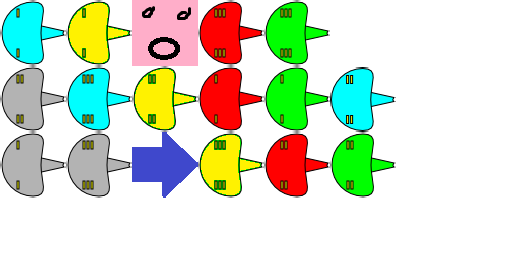
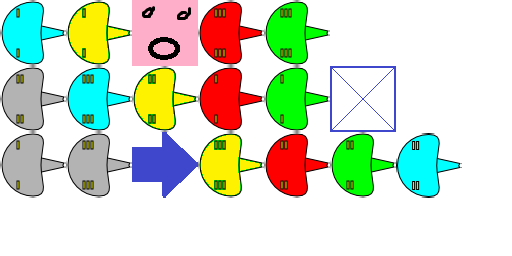
Design notes, earthquakewalls

Changed region(s): [[0.625, 0.25, 0.7812, 0.5312], [0.75, 0.5, 0.9062, 0.7812]]

diff --git a/LibGDXScene2d/my-gdx-game/src/com/me/mygdxgame/GameProcessor.java b/LibGDXScene2d/my-gdx-game/src/com/me/mygdxgame/GameProcessor.java
@@ -174,7 +174,7 @@ public class GameProcessor
 		Tower t = new Tower(
 				towerInfo.get(type),
 				towersAtlas.createSprite(towerInfo.get(type).towerTexture),
-				miscAtlas.createSprite(towerInfo.get(type).missileTexture));
+				miscAtlas.createSprite(towerInfo.get(type).missileTexture), towersAtlas.createSprite("walls"));
 		t.setPosition(tilePosition.x * GameConstants.tileSize, tilePosition.y
 				* GameConstants.tileSize);
 		return t;
@@ -469,7 +469,7 @@ public class GameProcessor
 									if (towers.get(c).getX() == t.getX()+GameConstants.tileSize && towers.get(c).getY() == t.getY())
 										canMove = false;
 								}
-								if(canMove)
+								if(canMove && !t.hasWall())
 									t.setPosition(t.getX() + GameConstants.tileSize, t.getY());
 							}
 							else if (d < 0.05 && map.canBuild((int) Math.round((t.getX()-GameConstants.tileSize) / GameConstants.tileSize), (int) Math.round(t.getY() / GameConstants.tileSize)))
@@ -480,7 +480,7 @@ public class GameProcessor
 									if (towers.get(c).getX() == t.getX()-GameConstants.tileSize && towers.get(c).getY() == t.getY())
 										canMove = false;
 								}
-								if(canMove)
+								if(canMove && !t.hasWall())
 								{
 									t.setPosition(t.getX() - GameConstants.tileSize, t.getY());
 								}
@@ -493,7 +493,7 @@ public class GameProcessor
 									if (towers.get(c).getX() == t.getX() && towers.get(c).getY() == t.getY()+GameConstants.tileSize)
 										canMove = false;
 								}
-								if(canMove)
+								if(canMove && !t.hasWall())
 									t.setPosition(t.getX(), t.getY()+GameConstants.tileSize);
 							}
 							else if (map.canBuild((int) Math.round(t.getX() / GameConstants.tileSize), (int) Math.round((t.getY()-GameConstants.tileSize) / GameConstants.tileSize)))
@@ -504,7 +504,7 @@ public class GameProcessor
 									if (towers.get(c).getX() == t.getX() && towers.get(c).getY() == t.getY()-GameConstants.tileSize)
 										canMove = false;
 								}
-								if(canMove)
+								if(canMove && !t.hasWall())
 									t.setPosition(t.getX(), t.getY()-GameConstants.tileSize);
 									
 							}

diff --git a/LibGDXScene2d/my-gdx-game/src/com/me/mygdxgame/Tower.java b/LibGDXScene2d/my-gdx-game/src/com/me/mygdxgame/Tower.java
@@ -4,6 +4,7 @@ import java.util.HashMap;
 import java.util.List;
 
 import com.badlogic.gdx.graphics.g2d.Sprite;
+import com.badlogic.gdx.graphics.g2d.SpriteBatch;
 import com.badlogic.gdx.math.Vector2;
 
 public class Tower extends ExtendedActor {
@@ -21,10 +22,11 @@ public class Tower extends ExtendedActor {
 	
 	Enemy targetEnemy;
 	boolean canShoot = false;
+	boolean wall = false;
 	
 	MissileEffect effects;
 	
-	public Tower (TowerStats towerStats, Sprite towerSprite, Sprite missileSprite) {
+	public Tower (TowerStats towerStats, Sprite towerSprite, Sprite missileSprite, Sprite wallSprite) {
 		super(towerSprite);
 		this.towerStats = towerStats;
 		this.currentSellPrice = towerStats.sellPrice;
@@ -32,6 +34,7 @@ public class Tower extends ExtendedActor {
 		this.targetEnemy = null;
 		textures.put(0, towerSprite);
 		textures.put(3, missileSprite);
+		textures.put(4, wallSprite);
 		currentLevel = 1;
 		effects = towerStats.missileEffects;
 		
@@ -88,6 +91,17 @@ public class Tower extends ExtendedActor {
 
         }
         
+	}
+	@Override
+	public void draw(SpriteBatch batch, float parentAlpha)
+	{
+		super.draw(batch, parentAlpha);
+		if (wall)
+		{
+			batch.draw(textures.get(4), super.getX(), super.getY(), super
+					.getOriginX(), super.getOriginY(), textures.get(4)
+					.getWidth(), textures.get(4).getHeight(), 1, 1, 0);
+		}
 	}
 	
 	@Override
@@ -169,5 +183,9 @@ public class Tower extends ExtendedActor {
 		textures.put(3, missileSprite);
 		super.setSprite(newTowerSprite);
 		return true;
+	}
+	public boolean hasWall()
+	{
+		return wall;
 	}
 }

diff --git a/LibGDXScene2d/my-gdx-game/src/com/me/mygdxgame/ListenerGenerator.java b/LibGDXScene2d/my-gdx-game/src/com/me/mygdxgame/ListenerGenerator.java
@@ -86,4 +86,26 @@ public class ListenerGenerator
 			}
 		};
 	}
+	public InputListener createWallButtonListener()
+	{
+		return new InputListener()
+		{
+			public boolean touchDown(InputEvent event, float x, float y, int pointer, int button)
+			{
+				if (myGdxGame.gameProcessor.selectedTower == null)
+					return true;
+				if (myGdxGame.gameProcessor.selectedTower.towerStats.upgradesTo.equals("null"))
+					return true;
+				int upgradeCost = myGdxGame.gameProcessor.selectedTower.towerStats.buildCost * 2;
+				boolean canAfford = myGdxGame.gameProcessor.currentGold >= upgradeCost ? true : false;
+				if (canAfford)
+				{
+					myGdxGame.gameProcessor.currentGold -= upgradeCost;
+					myGdxGame.hud.goldButton.setText("        " + myGdxGame.gameProcessor.currentGold);
+					myGdxGame.gameProcessor.selectedTower.wall = true;
+				}
+				return true;
+			}
+		};
+	}
 }

diff --git a/LibGDXScene2d/my-gdx-game/src/com/me/mygdxgame/HeadsUpDisplay.java b/LibGDXScene2d/my-gdx-game/src/com/me/mygdxgame/HeadsUpDisplay.java
@@ -89,6 +89,11 @@ public class HeadsUpDisplay
 		upgradeButton.setPosition(GameConstants.screenWidth - 4 * 64, GameConstants.screenHeight - 100);
 		stage.addActor(upgradeButton);
 
+		TextButton wallButton = buttonGenerator.createButton(miscAtlas.createSprite("wallButton"), font);
+		wallButton.addListener(listenerGenerator.createWallButtonListener());
+		wallButton.setPosition(GameConstants.screenWidth - 5 * 64, GameConstants.screenHeight - 100);
+		stage.addActor(wallButton);
+		
 		for (int i = 0; i < towerKeys.size(); i++)
 		{
 			if (!towerInfo.get(towerKeys.get(i)).buildable)
